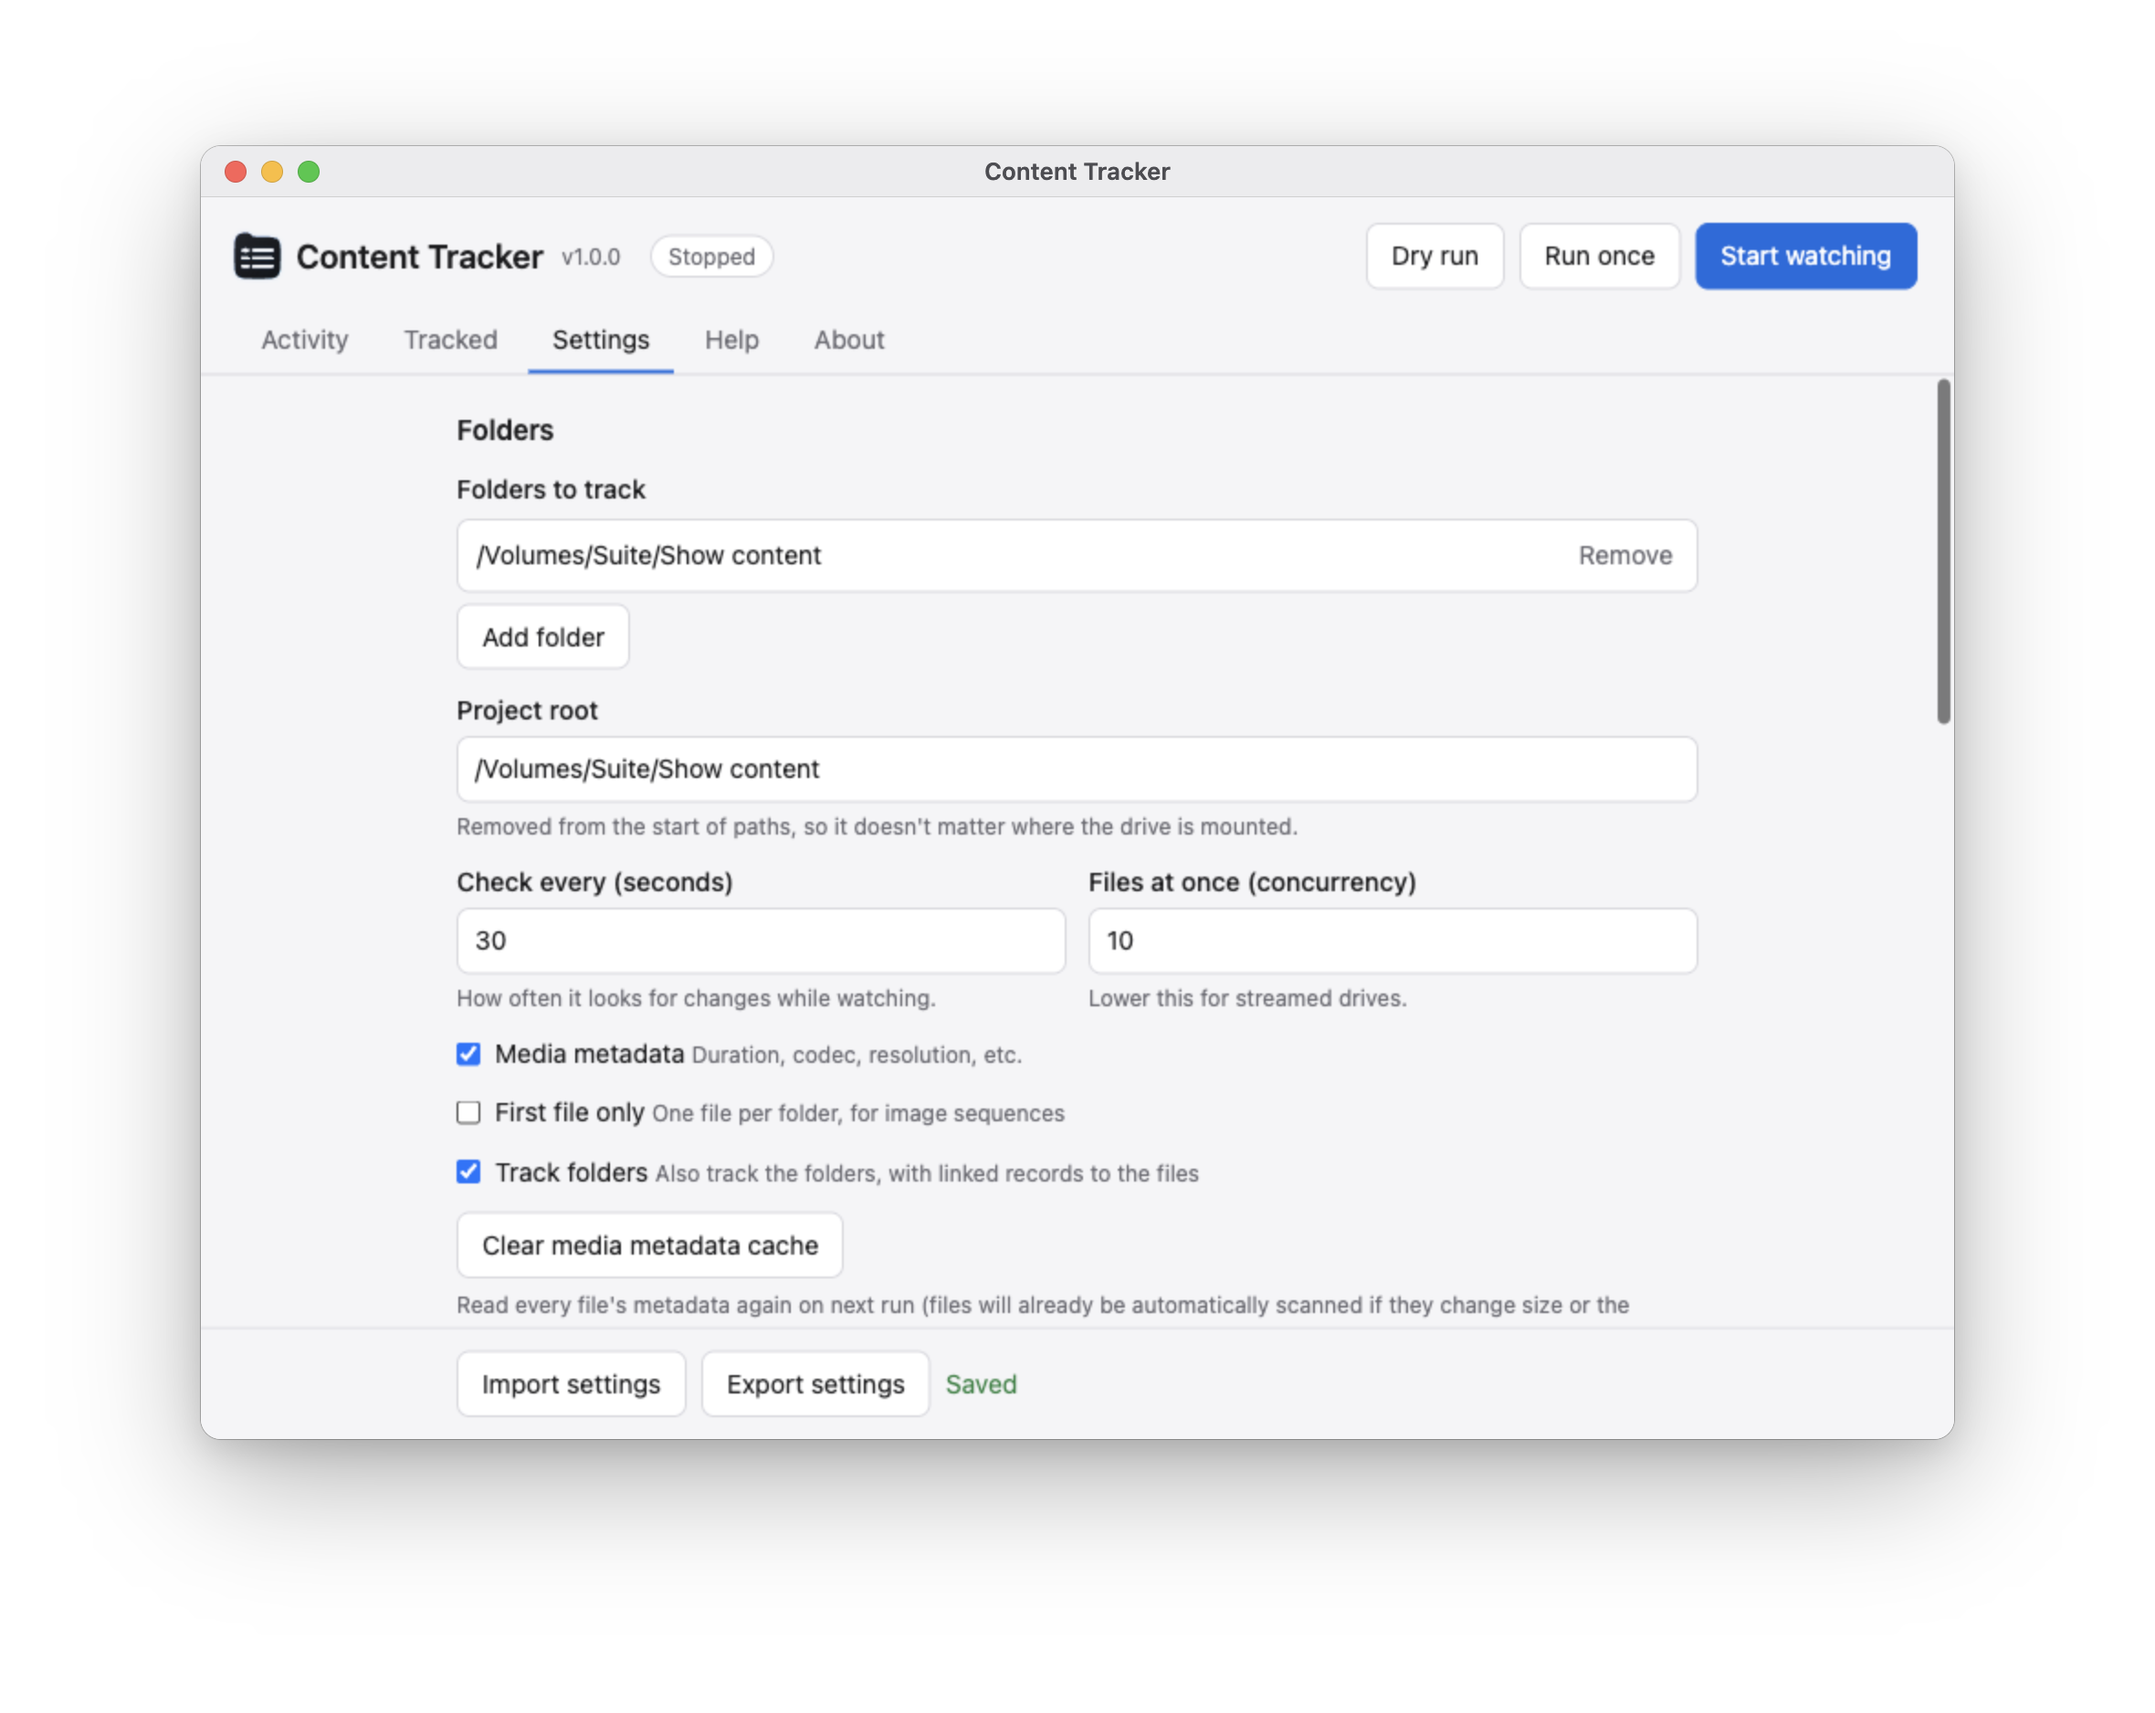
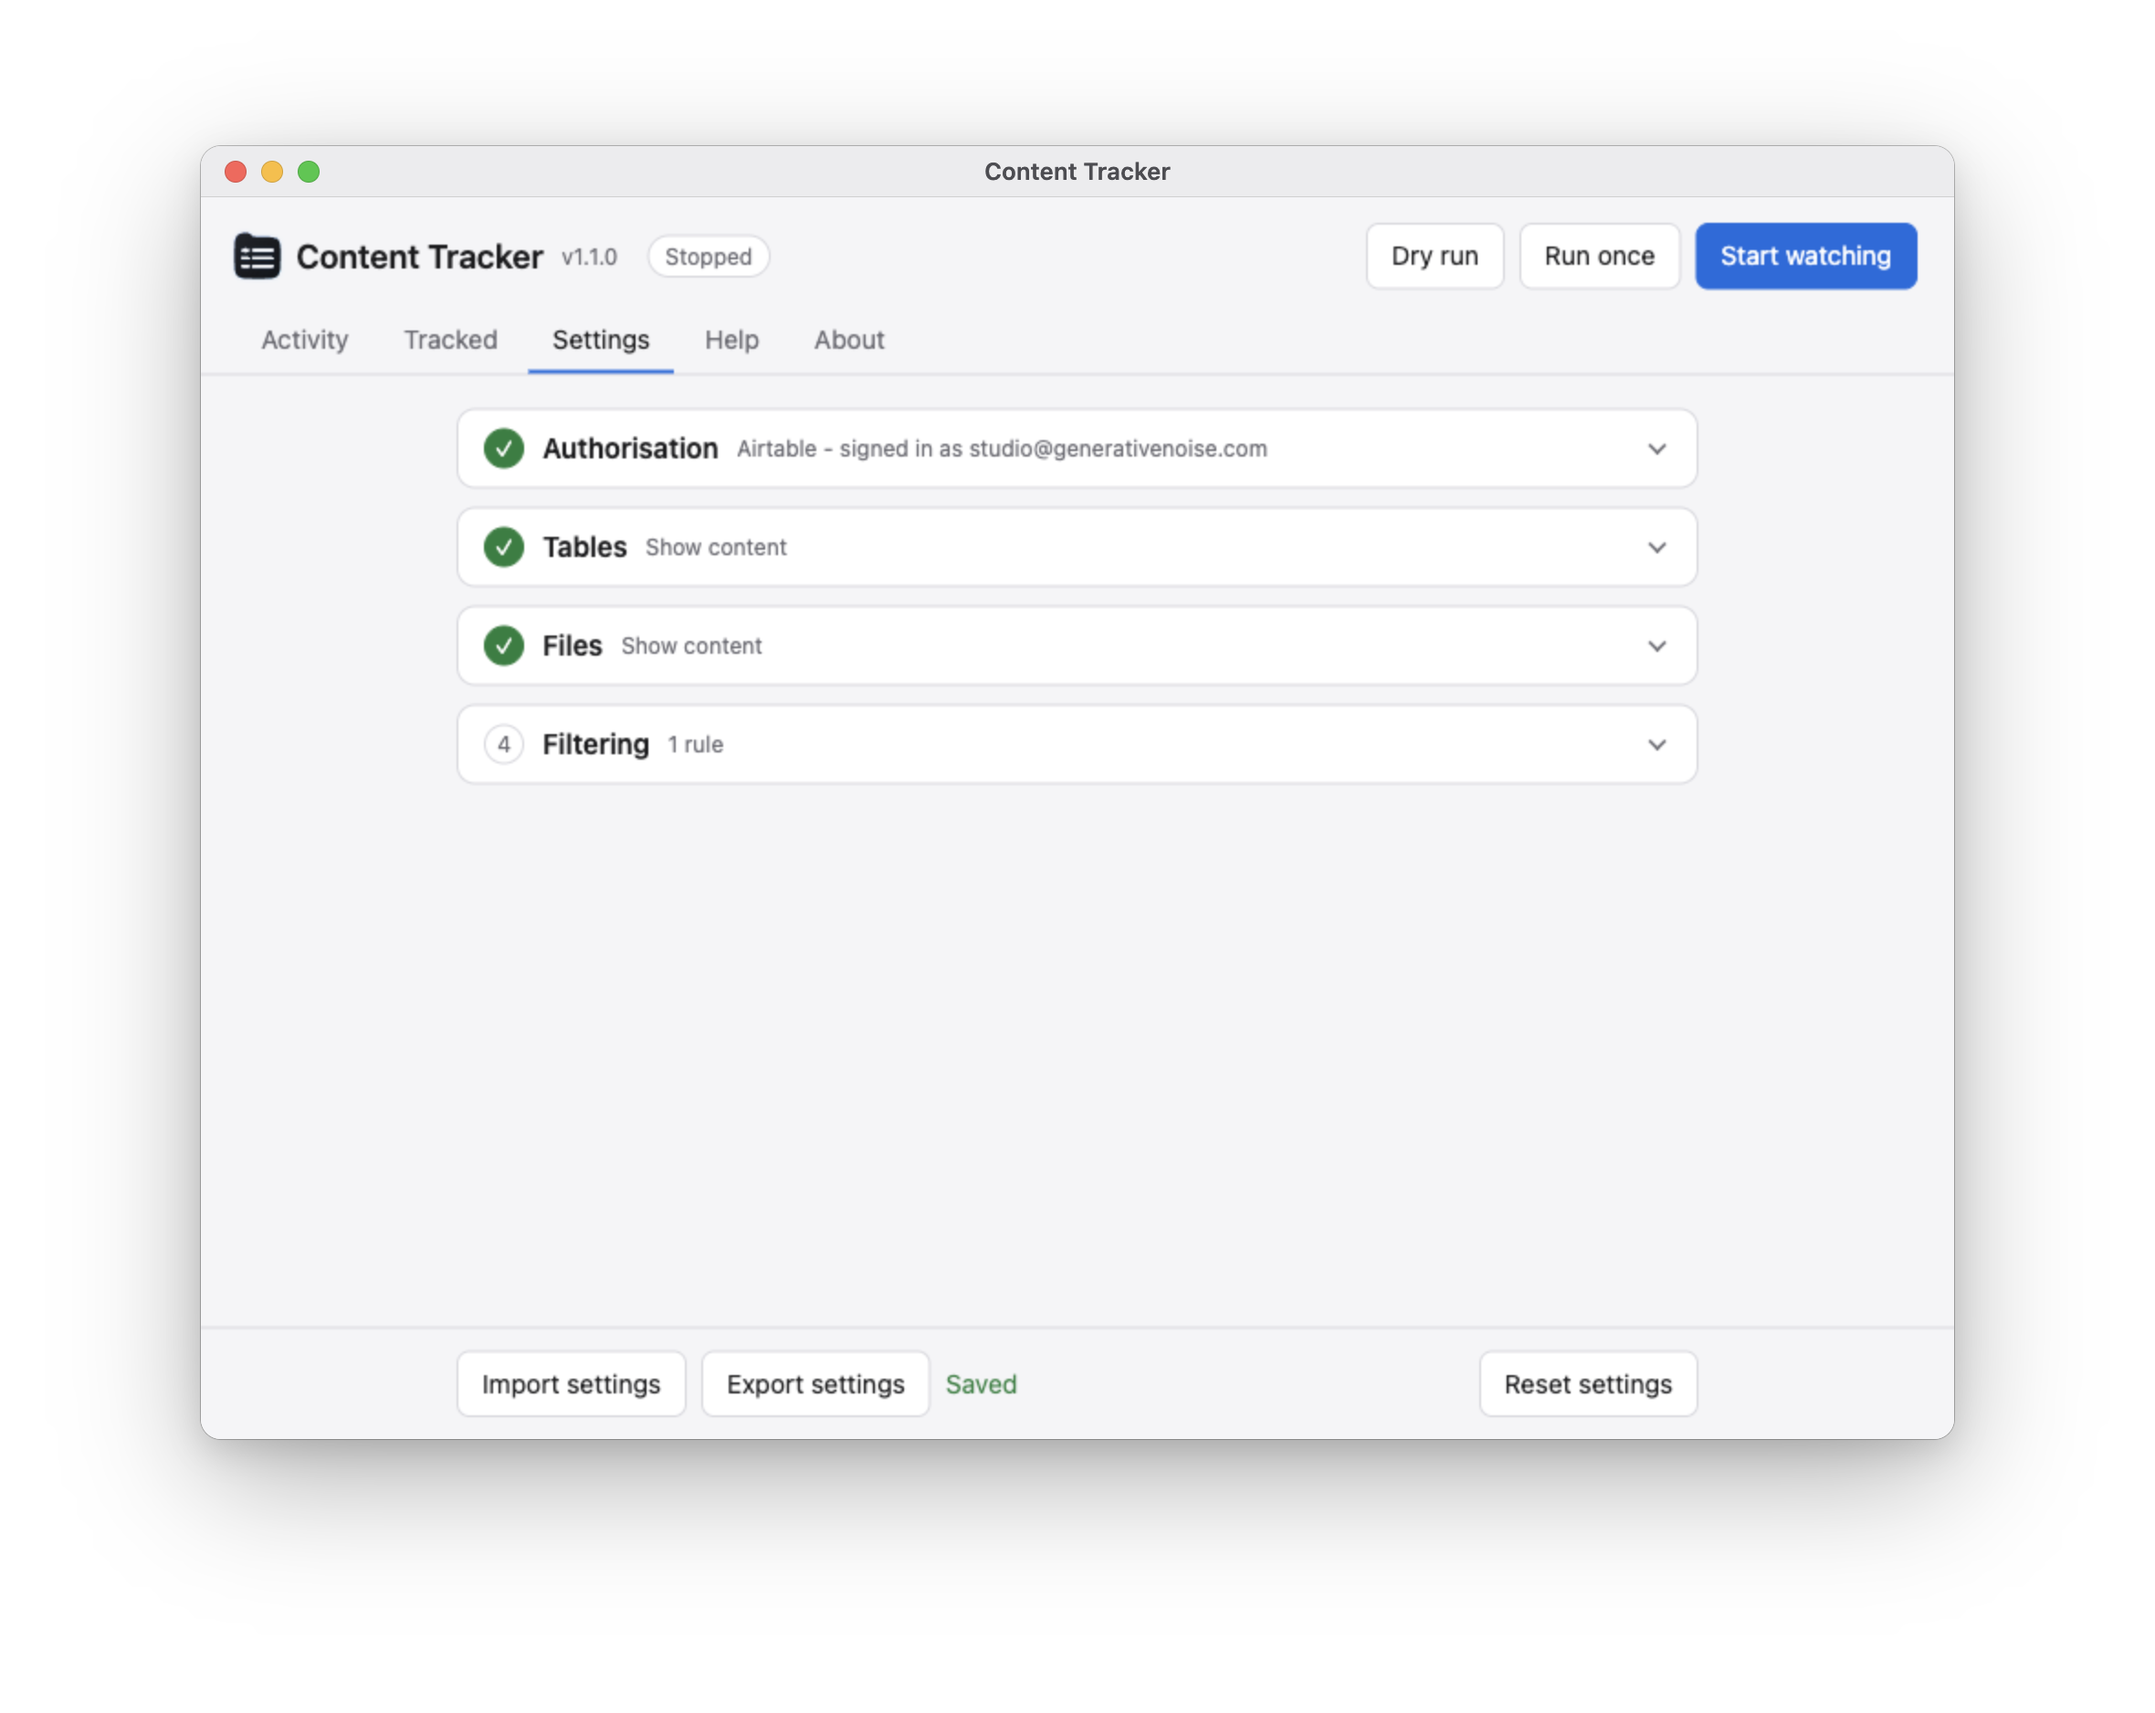
Step this way; 1.1.0
- Release notes for 1.1.0: the settings as four steps, choosing or making a
  spreadsheet in Google Drive, the Linux app, Show in Finder, Reset settings, the
  watching countdown, filtering a dry run, and Google's warning gone
- The README: the Linux app, sheets created with their header and _path frozen
  and columns fitted, no more clicking past Google's unverified warning
- The pictures, all taken again: a picture of each settings step, settings as a
  whole with every step folded, the menu bar's Wi-Fi in macOS's shape, and the
  dry run's counts as filters
- The screenshots wait on the app for a run to finish, as a dry run now ends on
  Tracked, and Project root's real path is hidden by its own name
- The release notes test looks at the first New, as there's more than one now

diff --git a/e2e/app.e2e.js b/e2e/app.e2e.js
@@ -287,7 +287,7 @@ test('shows the release notes from the version', async () => {
 	const notes = page.getByTestId('release-notes')
 	await expect(notes).toBeVisible()
 	await expect(notes.getByRole('heading', { name: version, exact: true })).toBeVisible()
-	await expect(notes.getByRole('heading', { name: 'New', exact: true })).toBeVisible()
+	await expect(notes.getByRole('heading', { name: 'New', exact: true }).first()).toBeVisible()
 	await page.keyboard.press('Escape')
 	await expect(notes).toBeHidden()
 })

diff --git a/README.md b/README.md
@@ -11,7 +11,7 @@
 
 This project came about as a means to track video content on concert shows, but is written generically. It recursively scans folders, which can be mapped network drives or streamed cloud storage like Dropbox, Drive, LucidLink or Suite, and keeps a list of the files & folders on Airtable or Google Sheets.
 
-There's a command line version and Mac, Windows & Linux app, which do the same thing.
+There's a command line version and Mac, Windows & Linux apps, which do the same thing.
 
 ## Quick Start
 
@@ -137,8 +137,6 @@ If all the records are being updated every time, it is likely because of a misma
 
 Sign in with Google: **Sign in with Google** in the app, or `tracker login google` on the command line, which opens your browser. Then choose the spreadsheet from your Google Drive - any spreadsheet you can edit: **Choose from Drive** in the app, or `tracker choose-spreadsheet`, which prints its ID for the config. **New spreadsheet** in the app makes one instead, named after the project. A sign in only opens the spreadsheets chosen or made this way, never the rest of your Drive, so one used with a version before 1.1 needs choosing once. The sign in is kept as Airtable's is, above, and `tracker logout google` forgets it.
 
-_Until Google has checked the app, it says so as you sign in: choose **Advanced**, then **Go to Content Tracker**._
-
 ### With a service account
 
 For a computer no one signs in on, like a server running it from cron, use a service account instead: a robot Google account that you share the spreadsheet with.
@@ -148,7 +146,7 @@ For a computer no one signs in on, like a server running it from cron, use a ser
 3. Make a spreadsheet and share it with the service account's email address (`...@...iam.gserviceaccount.com`) as an Editor.
 4. Fill in the [Google Sheets settings](#configsettingsgooglesheets).
 
-**The sheets and their header rows are created the first time it runs.** It has the same columns as the [Airtable tables](#tables), apart from `_parent` holding the parent folder's `_path`, as Sheets has no links.
+**The sheets and their header rows are created the first time it runs**, with the header row and `_path` frozen so they stay in view, and the columns fitted to what's in them. It has the same columns as the [Airtable tables](#tables), apart from `_parent` holding the parent folder's `_path`, as Sheets has no links.
 
 You can add columns of your own, in any position, and sort or filter however you like: rows are matched by `_path` and only the tracker's own columns are written to. Removing a file removes its whole row, your columns included. Everything is written as plain values, so nothing a file is named can run as a formula.
 

diff --git a/docs/release-notes/1.1.0.md b/docs/release-notes/1.1.0.md
@@ -1,0 +1,22 @@
+## New
+
+- Settings is now four steps - Authorisation, Tables, Files and Filtering - each collapsing once it's done.
+- **Choose from Drive** picks a spreadsheet from your Google Drive, and **New spreadsheet** makes one named after the project. On the command line, `tracker choose-spreadsheet` picks one.
+- A Linux app (an AppImage), which updates itself like the Mac and Windows apps.
+- **Show in Finder** (or Explorer) beside each tracked folder.
+- **Reset settings**, at the bottom of Settings.
+- While watching, a progress bar along **Stop watching** shows the wait until the next scan.
+- After a dry run, click new, modified, deleted or unchanged to filter to just those.
+
+## Improved
+
+- Google no longer warns that it hasn't checked the app when you sign in.
+- Settings shows the base's or spreadsheet's name rather than its ID.
+- Sheets it creates keep the header row and `_path` in view, and fit their columns to what's in them the first time.
+- **Run once** and **Start watching** go to **Activity**, a dry run to **Tracked**, and a failed run shows why.
+- The app opens on Settings when it hasn't been configured.
+- Each filtering rule has a tooltip that says what it does.
+
+## Fixed
+
+- Closing the browser tab while signing in no longer leaves the button greyed out: sign in again, or **Cancel**.
